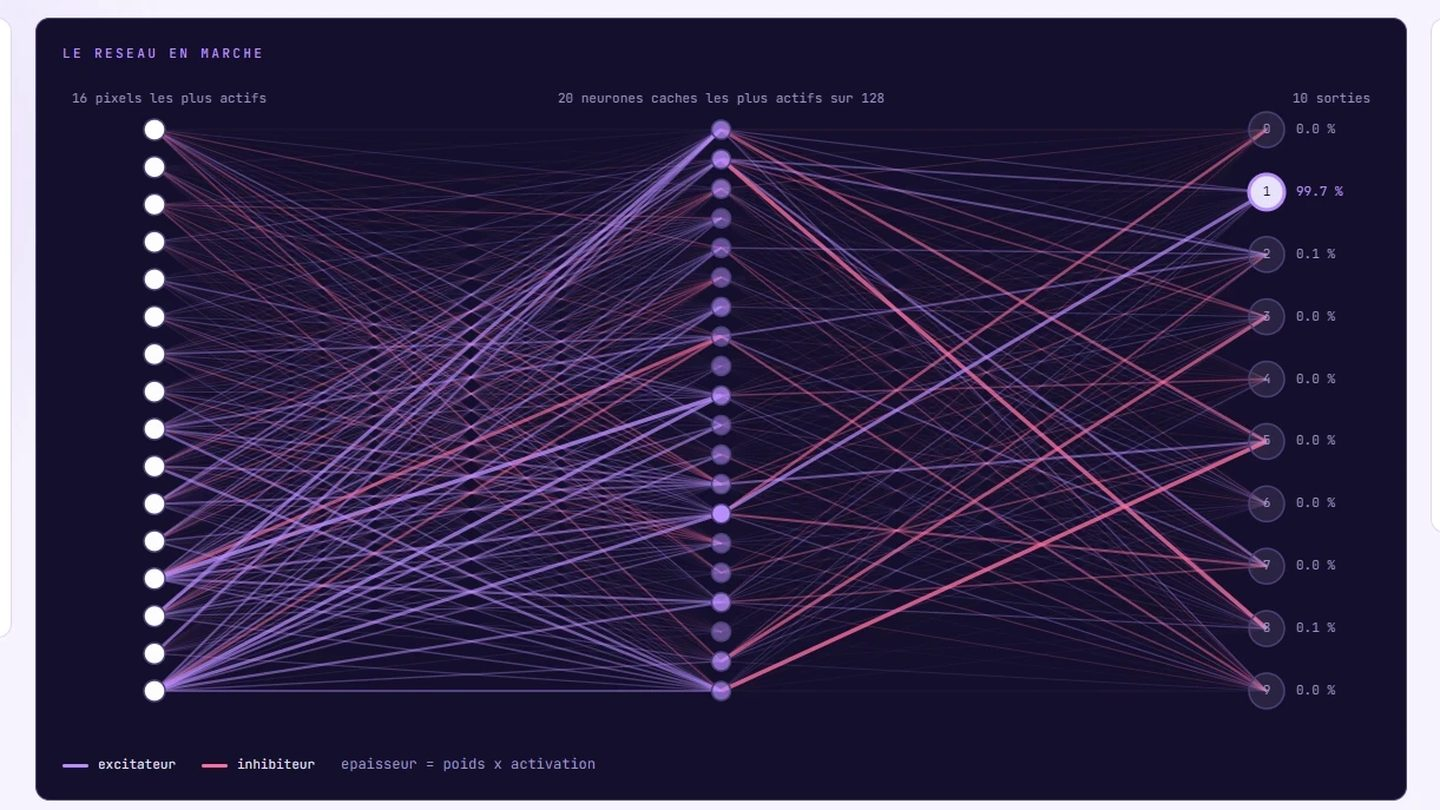
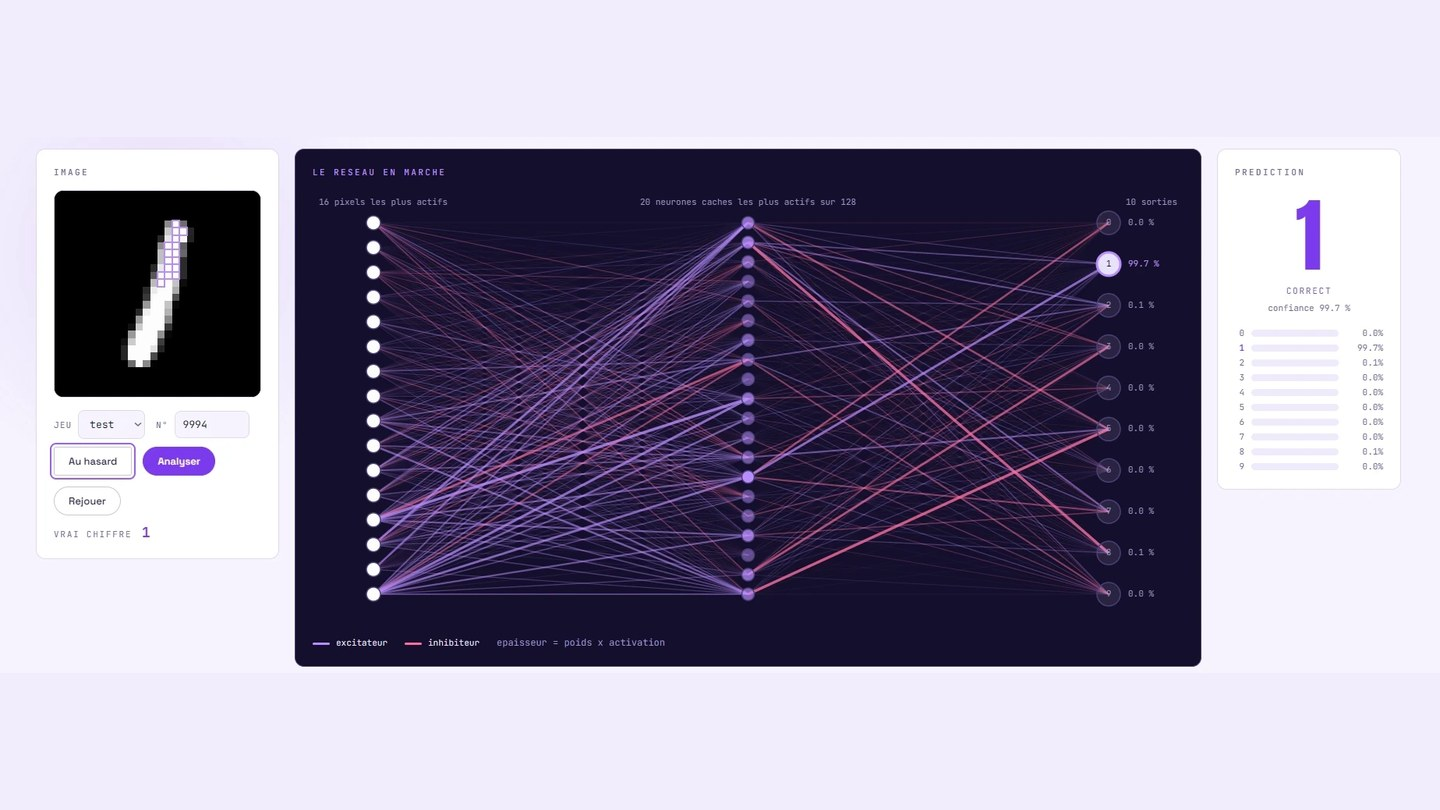
fix(projets): empiler les noms trop longs, montrer toute la capture
Deux defauts vus sur Neural Network, le premier nom qui ne tient pas dans
une tuile.

Le nom debordait de la tuile. Sa boite mesurait 120 px quelle que soit
l'echelle, alors qu'une tuile non choisie n'en fait que 82 : le texte,
rendu a sa taille reelle par la contre-echelle, sortait donc de 19 px de
chaque cote. La boite suit maintenant la largeur visible de la tuile, 120
multiplies par l'echelle, et le nom se coupe tout seul. « Neural Network »
s'empile sur deux lignes, qui montent depuis le pied puisque le bloc y est
ancre. Les sept autres restent sur une ligne, et aucun ne deborde.

Le nom de la tuile choisie disparait desormais sans fondu. Sa boite passe
de 82 a 120 px en devenant active, et un nom empile se recollait alors en
une seule ligne a 65 % d'opacite, en plein dans le fondu. Sans transition,
les deux tombent sur la meme image et le recollement ne se voit pas. Le
fondu reste au retour, quand la tuile cesse d'etre choisie.

Le rapport d'echelle de l'animation de la legende se prend sur les corps
et non sur les hauteurs de bloc : un nom sur deux lignes est deux fois
trop haut, et l'animation partait deux fois trop grande.

La capture, enfin, ne montrait que le panneau du reseau : le chiffre a
reconnaitre et le tableau des probabilites, qui sont la moitie du propos,
etaient hors cadre. Elle n'est plus recadree du tout. Comme elle fait
2,69:1 et le cadre 16:9, elle est completee en hauteur par la couleur de
fond de l'outil, relevee sur la capture elle-meme.

diff --git a/src/components/projects/Filmstrip.module.css b/src/components/projects/Filmstrip.module.css
@@ -122,17 +122,25 @@
  *
  * Contre-echelle : la tuile est reduite horizontalement, le nom doit garder
  * ses proportions, sinon les capitales d'Anton, deja etroites, se tassent.
- * `nowrap` avec elle : la boite fait 120 px quelle que soit l'echelle, donc un
- * retour a la ligne se calculerait sur une largeur que la tuile n'a pas.
+ *
+ * La boite, elle, suit la largeur *visible* de la tuile : 120 px multiplies
+ * par l'echelle. Sans ca elle mesurerait toujours 120 px et un nom long
+ * comme « Neural Network » debordait de chaque cote d'une tuile qui n'en fait
+ * que 82. Avec la bonne largeur, le nom se coupe tout seul et s'empile sur
+ * deux lignes, qui montent depuis le pied puisque le bloc y est ancre.
+ *
+ * L'echelle nette du nom vaut donc 1 : la boite est reduite par la tuile puis
+ * rendue par la contre-echelle, le texte se coupe et se dessine a la meme
+ * largeur que la tuile.
  */
 .name {
   position: absolute;
-  left: 0;
-  right: 0;
+  left: 50%;
   bottom: 14px;
-  padding: 0 6px;
+  width: calc(120px * var(--ech, 0.6833));
+  padding: 0 5px;
   text-align: center;
-  transform: scaleX(calc(1 / var(--ech, 0.6833)));
+  transform: translateX(-50%) scaleX(calc(1 / var(--ech, 0.6833)));
   transition:
     transform 0.45s var(--ease-out),
     opacity 0.3s var(--ease-out);
@@ -142,17 +150,26 @@
   letter-spacing: 0.02em;
   text-transform: uppercase;
   color: var(--ink, #ffffff);
-  white-space: nowrap;
-  overflow: hidden;
+  /* Coupure entre les mots, et sur le mot lui-meme s'il ne tient pas seul. */
+  overflow-wrap: anywhere;
 }
 
 /**
  * La tuile choisie n'affiche plus son nom : il est parti en bas de la
  * pellicule, en grand. C'est la meme etiquette qui se deplace, pas une
  * seconde qui apparait, et l'animation de la legende part d'ici.
+ *
+ * Disparition immediate et non fondue. La boite du nom suit la largeur de la
+ * tuile : en devenant active elle passe de 82 a 120 px, et un nom empile sur
+ * deux lignes se recollait alors en une seule, a 65 % d'opacite, soit en plein
+ * dans le fondu. En coupant la transition, le changement de largeur et
+ * l'effacement tombent sur la meme image et le recollement ne se voit pas. Le
+ * fondu reste a l'aller, quand la tuile cesse d'etre choisie et que son nom
+ * revient.
  */
 .tile.current .name {
   opacity: 0;
+  transition: transform 0.45s var(--ease-out);
 }
 
 /**

diff --git a/src/components/projects/Filmstrip.tsx b/src/components/projects/Filmstrip.tsx
@@ -72,7 +72,12 @@ export function Filmstrip({ active, onActivate, onOpen }: Props) {
         const arrivee = nomLegende.getBoundingClientRect();
         const depart = nomTuile.getBoundingClientRect();
         if (!arrivee.height) return;
-        const echelle = depart.height / arrivee.height;
+        /* Le rapport se prend sur les corps et non sur les hauteurs de bloc :
+           un nom qui s'empile sur deux lignes au pied de la tuile serait deux
+           fois trop haut, et l'animation partirait deux fois trop grande. */
+        const echelle =
+          parseFloat(getComputedStyle(nomTuile).fontSize) /
+          parseFloat(getComputedStyle(nomLegende).fontSize);
 
         /**
          * `fromTo` et non `from`. `from` anime depuis les valeurs donnees

diff --git a/src/components/projects/projects.data.ts b/src/components/projects/projects.data.ts
@@ -115,7 +115,7 @@ export const PROJECTS: Project[] = [
     links: [],
     media: {
       src: neuralMedia,
-      alt: 'Le réseau en marche : une colonne de pixels à gauche, les neurones cachés au centre, les dix chiffres à droite avec leurs pourcentages, reliés par des traits violets et roses dont l’épaisseur varie.',
+      alt: 'L’outil en marche : à gauche le chiffre manuscrit à reconnaître, au centre le réseau avec ses pixels, ses neurones cachés et ses dix sorties reliés par des traits violets et roses, à droite la prédiction et la probabilité de chacun des dix chiffres.',
     },
     /* La DA du projet reprend les jetons du portfolio, avec le rose des poids
        inhibiteurs pour seul ajout. C'est donc lui qui distingue la tuile de
